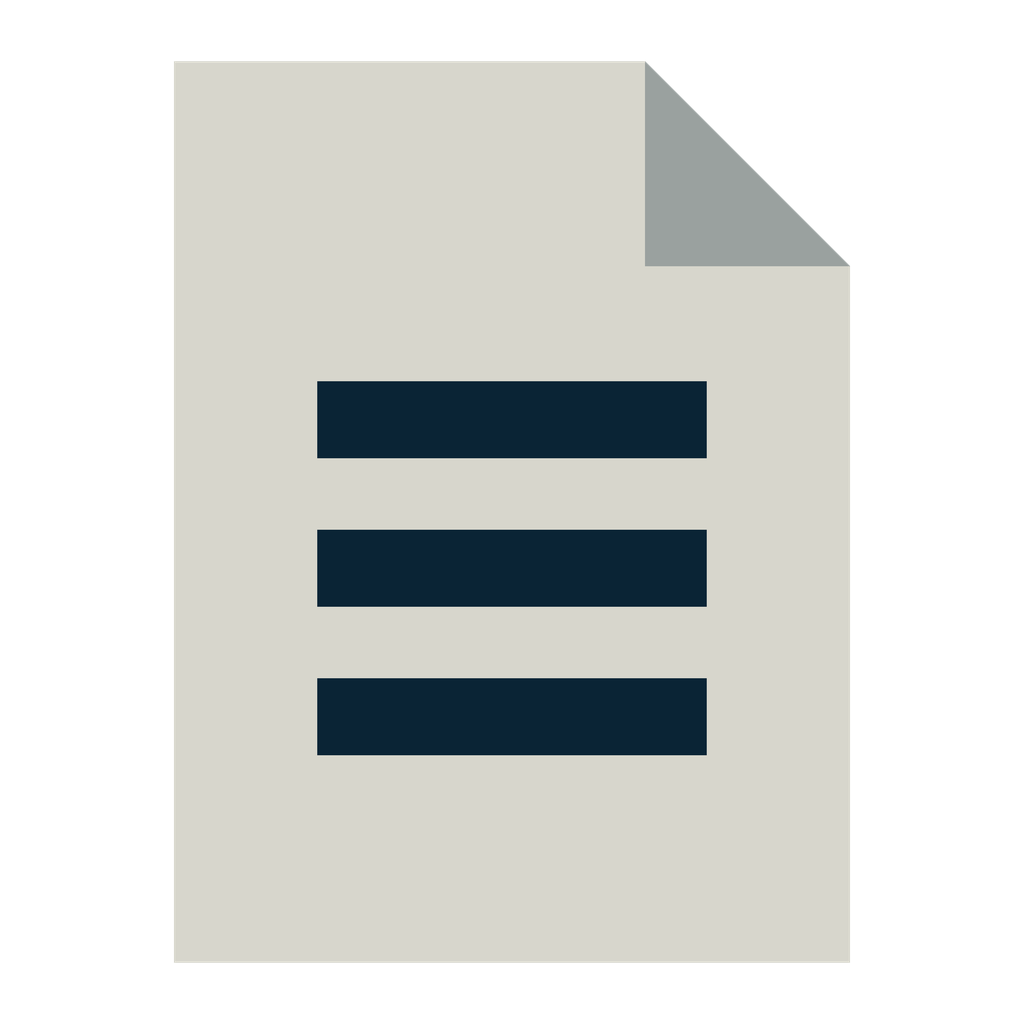
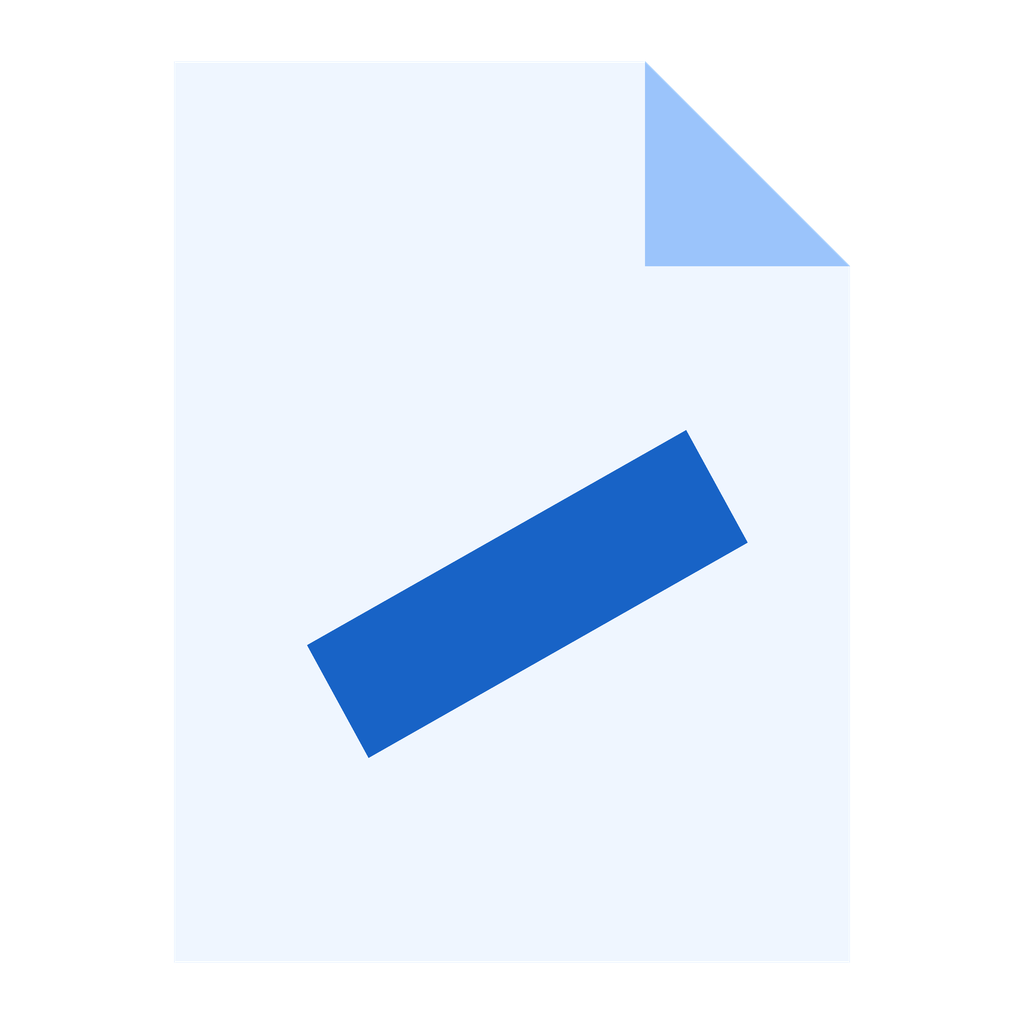
Remove Insite branding from PDF Watermark

diff --git a/ui/styles.css b/ui/styles.css
@@ -42,9 +42,7 @@ svg { display: block; }
 [hidden] { display: none !important; }
 
 /* ---- Backdrop ------------------------------------------------------------
-   A still blue gradient in the INSITE DC colours behind the frosted card:
-   Midnight (#0A2435) lifted towards the top, with a soft Stormcloud (#63737F)
-   light under the header, deepening to near-black at the bottom. */
+   A blue gradient behind the frosted card. */
 .backdrop {
   position: fixed; inset: 0; pointer-events: none;
   background:
@@ -52,15 +50,9 @@ svg { display: block; }
     linear-gradient(180deg, #123A57 0%, #0A2435 45%, #05141F 100%);
 }
 
-/* ---- Brand lockup ---------------------------------------------------------
-   The INSITE DC wordmark and the app name, at the left of the header. The
-   title bar draws no icon or text, so this is where the app names itself.
-   On a narrow window only the wordmark stays, so it never crowds the steps. */
-.lockup { display: flex; align-items: center; gap: 12px; min-width: 0; padding-left: 4px; }
-.lockup img { display: block; height: 13px; width: auto; }
-.lockup-rule { width: 1px; height: 16px; background: var(--border-strong); }
-.lockup-name { color: var(--muted); white-space: nowrap; font-size: 12px; font-weight: 600; letter-spacing: 0.04em; }
-@media (max-width: 1000px) { .lockup-rule, .lockup-name { display: none; } }
+/* The app name remains visible when Windows hides the native title. */
+.lockup { min-width: 0; padding-left: 4px; }
+.lockup-name { color: var(--text); white-space: nowrap; font-size: 14px; font-weight: 600; }
 
 /* ---- Layout -------------------------------------------------------------- */
 .app {

diff --git a/ui/index.html b/ui/index.html
@@ -8,7 +8,7 @@
 </head>
 <body>
 
-<!-- The INSITE DC blue gradient behind the card (styles.css, .backdrop). -->
+<!-- The blue gradient behind the card (styles.css, .backdrop). -->
 <div class="backdrop" aria-hidden="true"></div>
 
 <div class="app">
@@ -17,8 +17,6 @@
        colour and empties of its icon and text, so the name lives here. -->
   <header class="topbar">
     <div class="topbar-side lockup">
-      <img src="insite-dc.png" alt="INSITE DC" width="107" height="13">
-      <span class="lockup-rule" aria-hidden="true"></span>
       <span class="lockup-name">PDF Watermark</span>
     </div>
 

diff --git a/packaging/make_icons.py b/packaging/make_icons.py
@@ -17,18 +17,13 @@ S = 1024
 X = 4  # drawn at 4x, then scaled down, for smooth edges
 
 
-# INSITE DC brand colours.
-GREIGE = (0xD7, 0xD6, 0xCC)
-FOLD = (0x9A, 0xA1, 0x9F)       # a shade darker than Greige
-MIDNIGHT = (0x0A, 0x24, 0x35)
+PAPER = "#eff6ff"
+FOLD = "#9bc4fb"
+MARK = "#1863c6"
 
 
 def draw() -> Image.Image:
-    """
-    A Greige document with a folded corner, and inside it the three bars
-    that form the "E" of the INSITE DC wordmark, in Midnight. No tile behind
-    it, so the page shape itself is the icon. Square corners, as in the brand.
-    """
+    """Draw a folded PDF page with a diagonal watermark."""
     n = S * X
     img = Image.new("RGBA", (n, n), (0, 0, 0, 0))
     d = ImageDraw.Draw(img)
@@ -36,16 +31,11 @@ def draw() -> Image.Image:
     left, top, right, bottom = n * 0.17, n * 0.06, n * 0.83, n * 0.94
     fold = n * 0.20
     d.polygon([(left, top), (right - fold, top), (right, top + fold), (right, bottom), (left, bottom)],
-              fill=GREIGE + (255,))
-    d.polygon([(right - fold, top), (right - fold, top + fold), (right, top + fold)], fill=FOLD + (255,))
+              fill=PAPER)
+    d.polygon([(right - fold, top), (right - fold, top + fold), (right, top + fold)], fill=FOLD)
 
-    # The E: three equal bars, centred a little below the middle of the page.
-    bar_left, bar_right = n * 0.31, n * 0.69
-    height, gap = n * 0.075, n * 0.07
-    first = n * 0.555 - (3 * height + 2 * gap) / 2
-    for i in range(3):
-        y = first + i * (height + gap)
-        d.rectangle([bar_left, y, bar_right, y + height], fill=MIDNIGHT + (255,))
+    d.polygon([(n * 0.30, n * 0.63), (n * 0.67, n * 0.42),
+               (n * 0.73, n * 0.53), (n * 0.36, n * 0.74)], fill=MARK)
     return img.resize((S, S), Image.LANCZOS)
 
 

diff --git a/app.py b/app.py
@@ -381,7 +381,7 @@ def hide_caption(window: webview.Window) -> None:
     """
     Stop Windows drawing the icon and title text in the title bar, leaving an
     empty strip with the caption buttons that runs into the header, where the
-    INSITE DC wordmark and the app name sit instead.
+    app name sits instead.
 
     Only the drawing is skipped: the window keeps its title and icon, so the
     taskbar and Alt+Tab still name it and show the logo.
